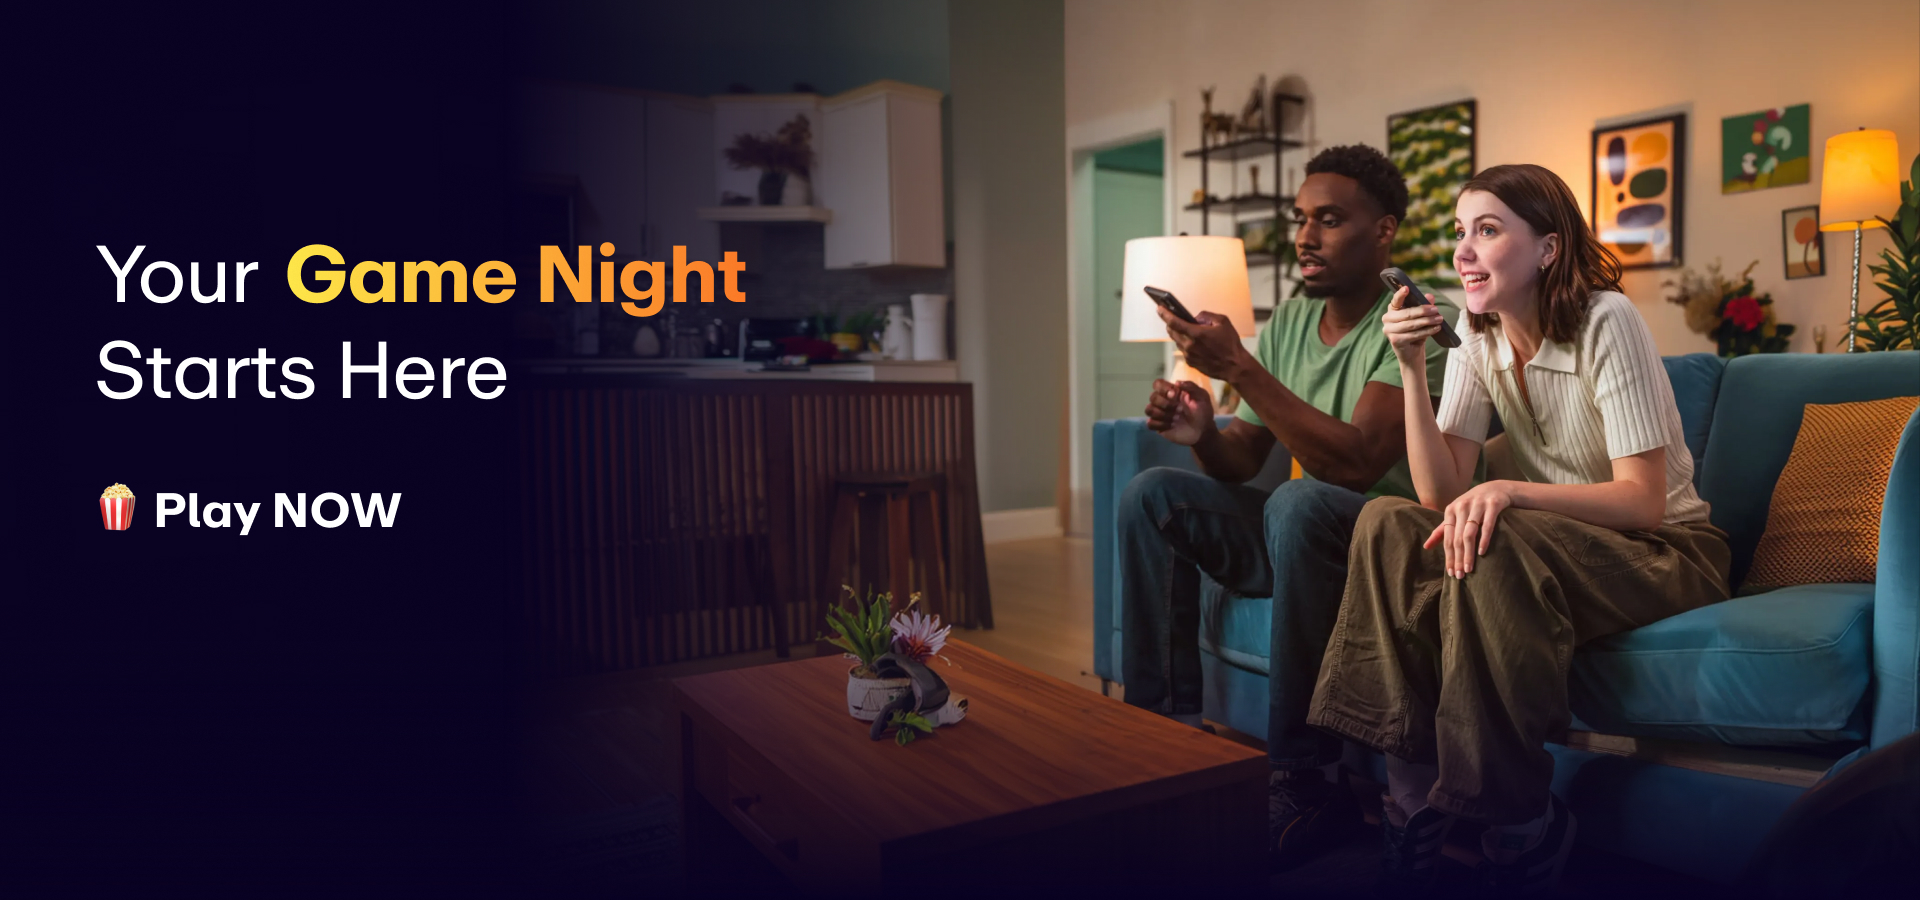
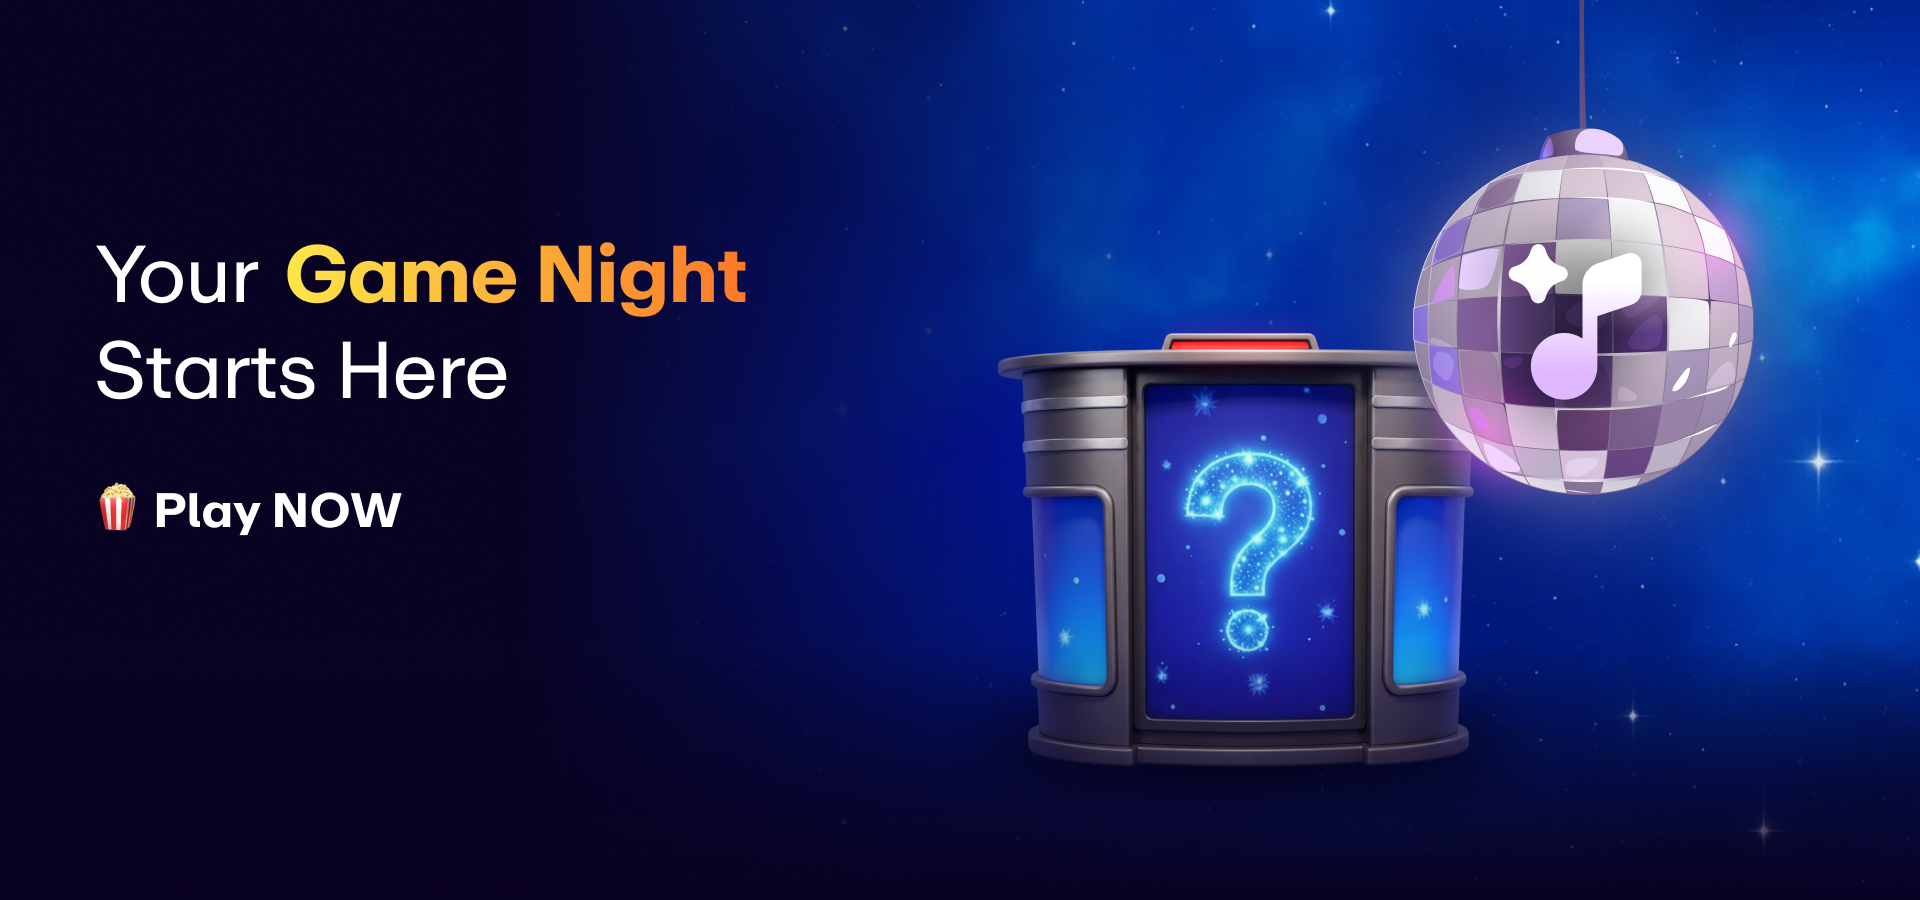
hub9 merch hero: new slide art; rename personal-time to free-time

diff --git a/packages/tv/src/prototype/hub9/games9.ts b/packages/tv/src/prototype/hub9/games9.ts
@@ -147,7 +147,7 @@ export interface Hub9MerchSlide {
 export const HUB9_MERCH: Hub9MerchSlide[] = [
   { key: 'game-night', bg: assetUrl('/games/hub9/merch/game-night.jpg'), games: ['jeopardy', 'song-quiz'] },
   { key: 'shout-out', bg: assetUrl('/games/hub9/merch/shout-out.jpg'), games: ['guess-the-emoji', 'sketchy-af'] },
-  { key: 'personal-time', bg: assetUrl('/games/hub9/merch/personal-time.jpg'), games: ['wheel-of-fortune', 'spot-on'] },
+  { key: 'free-time', bg: assetUrl('/games/hub9/merch/free-time.jpg'), games: ['wheel-of-fortune', 'spot-on'] },
 ];
 
 /**
